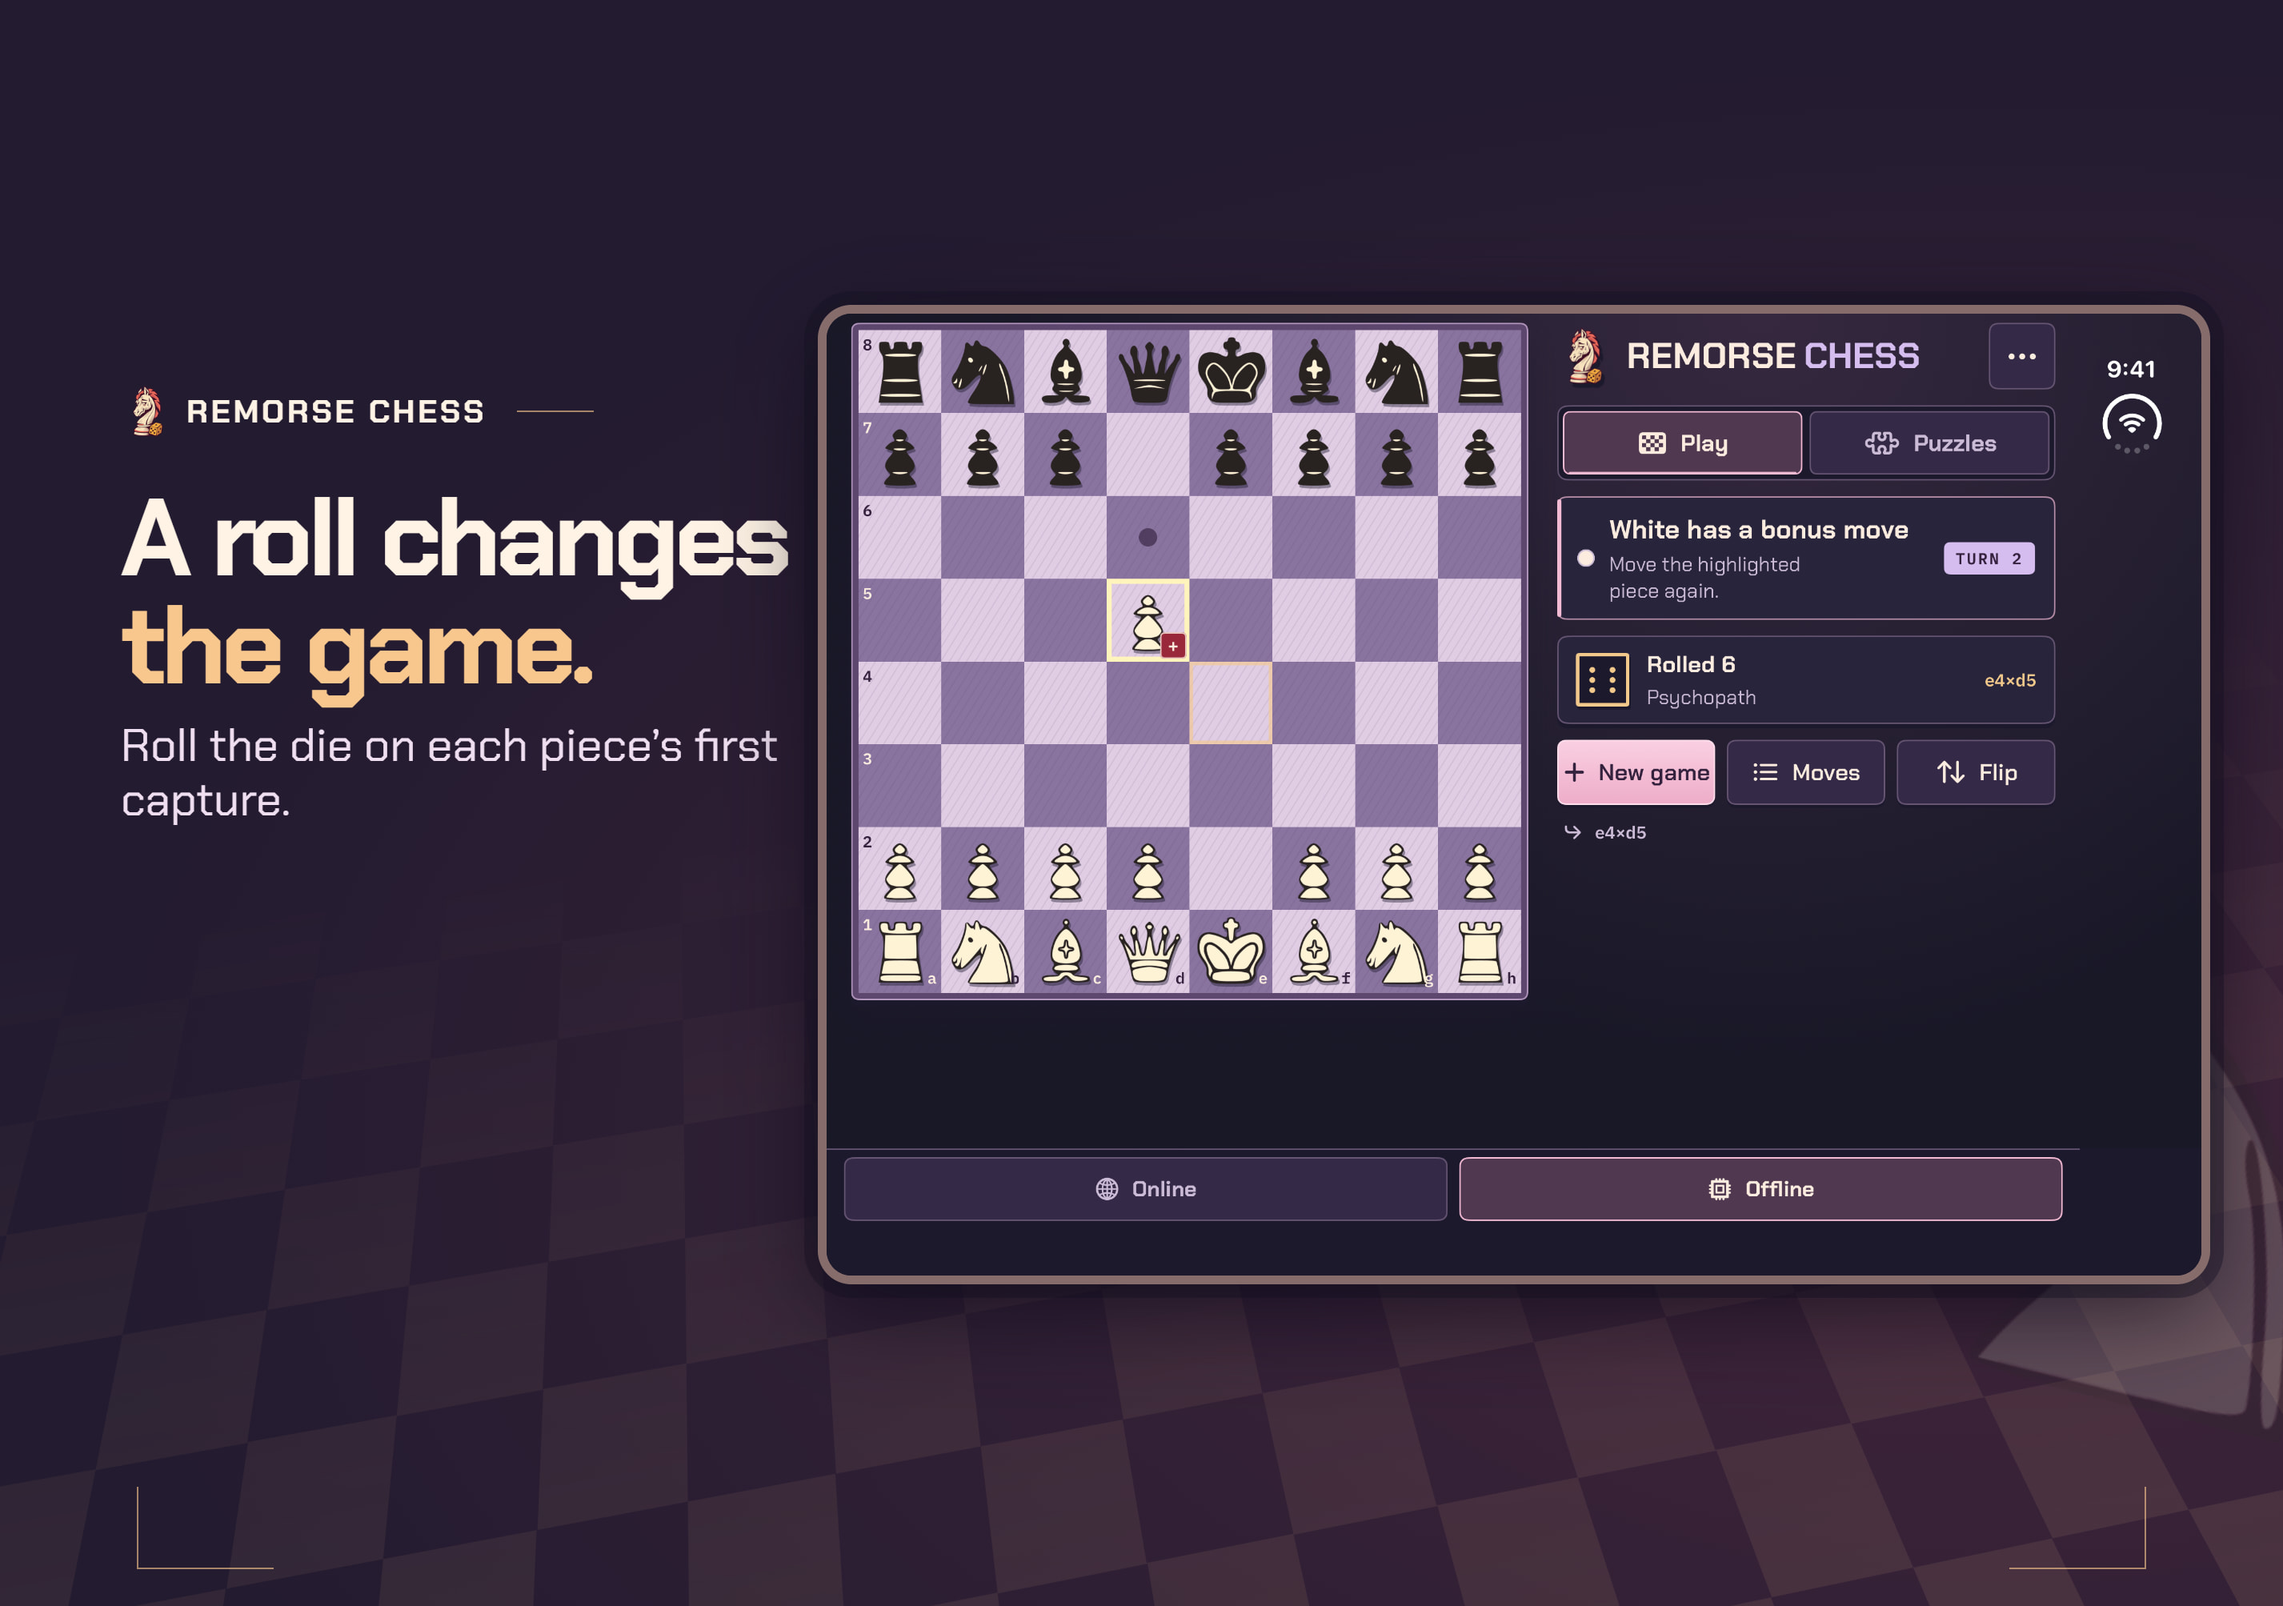
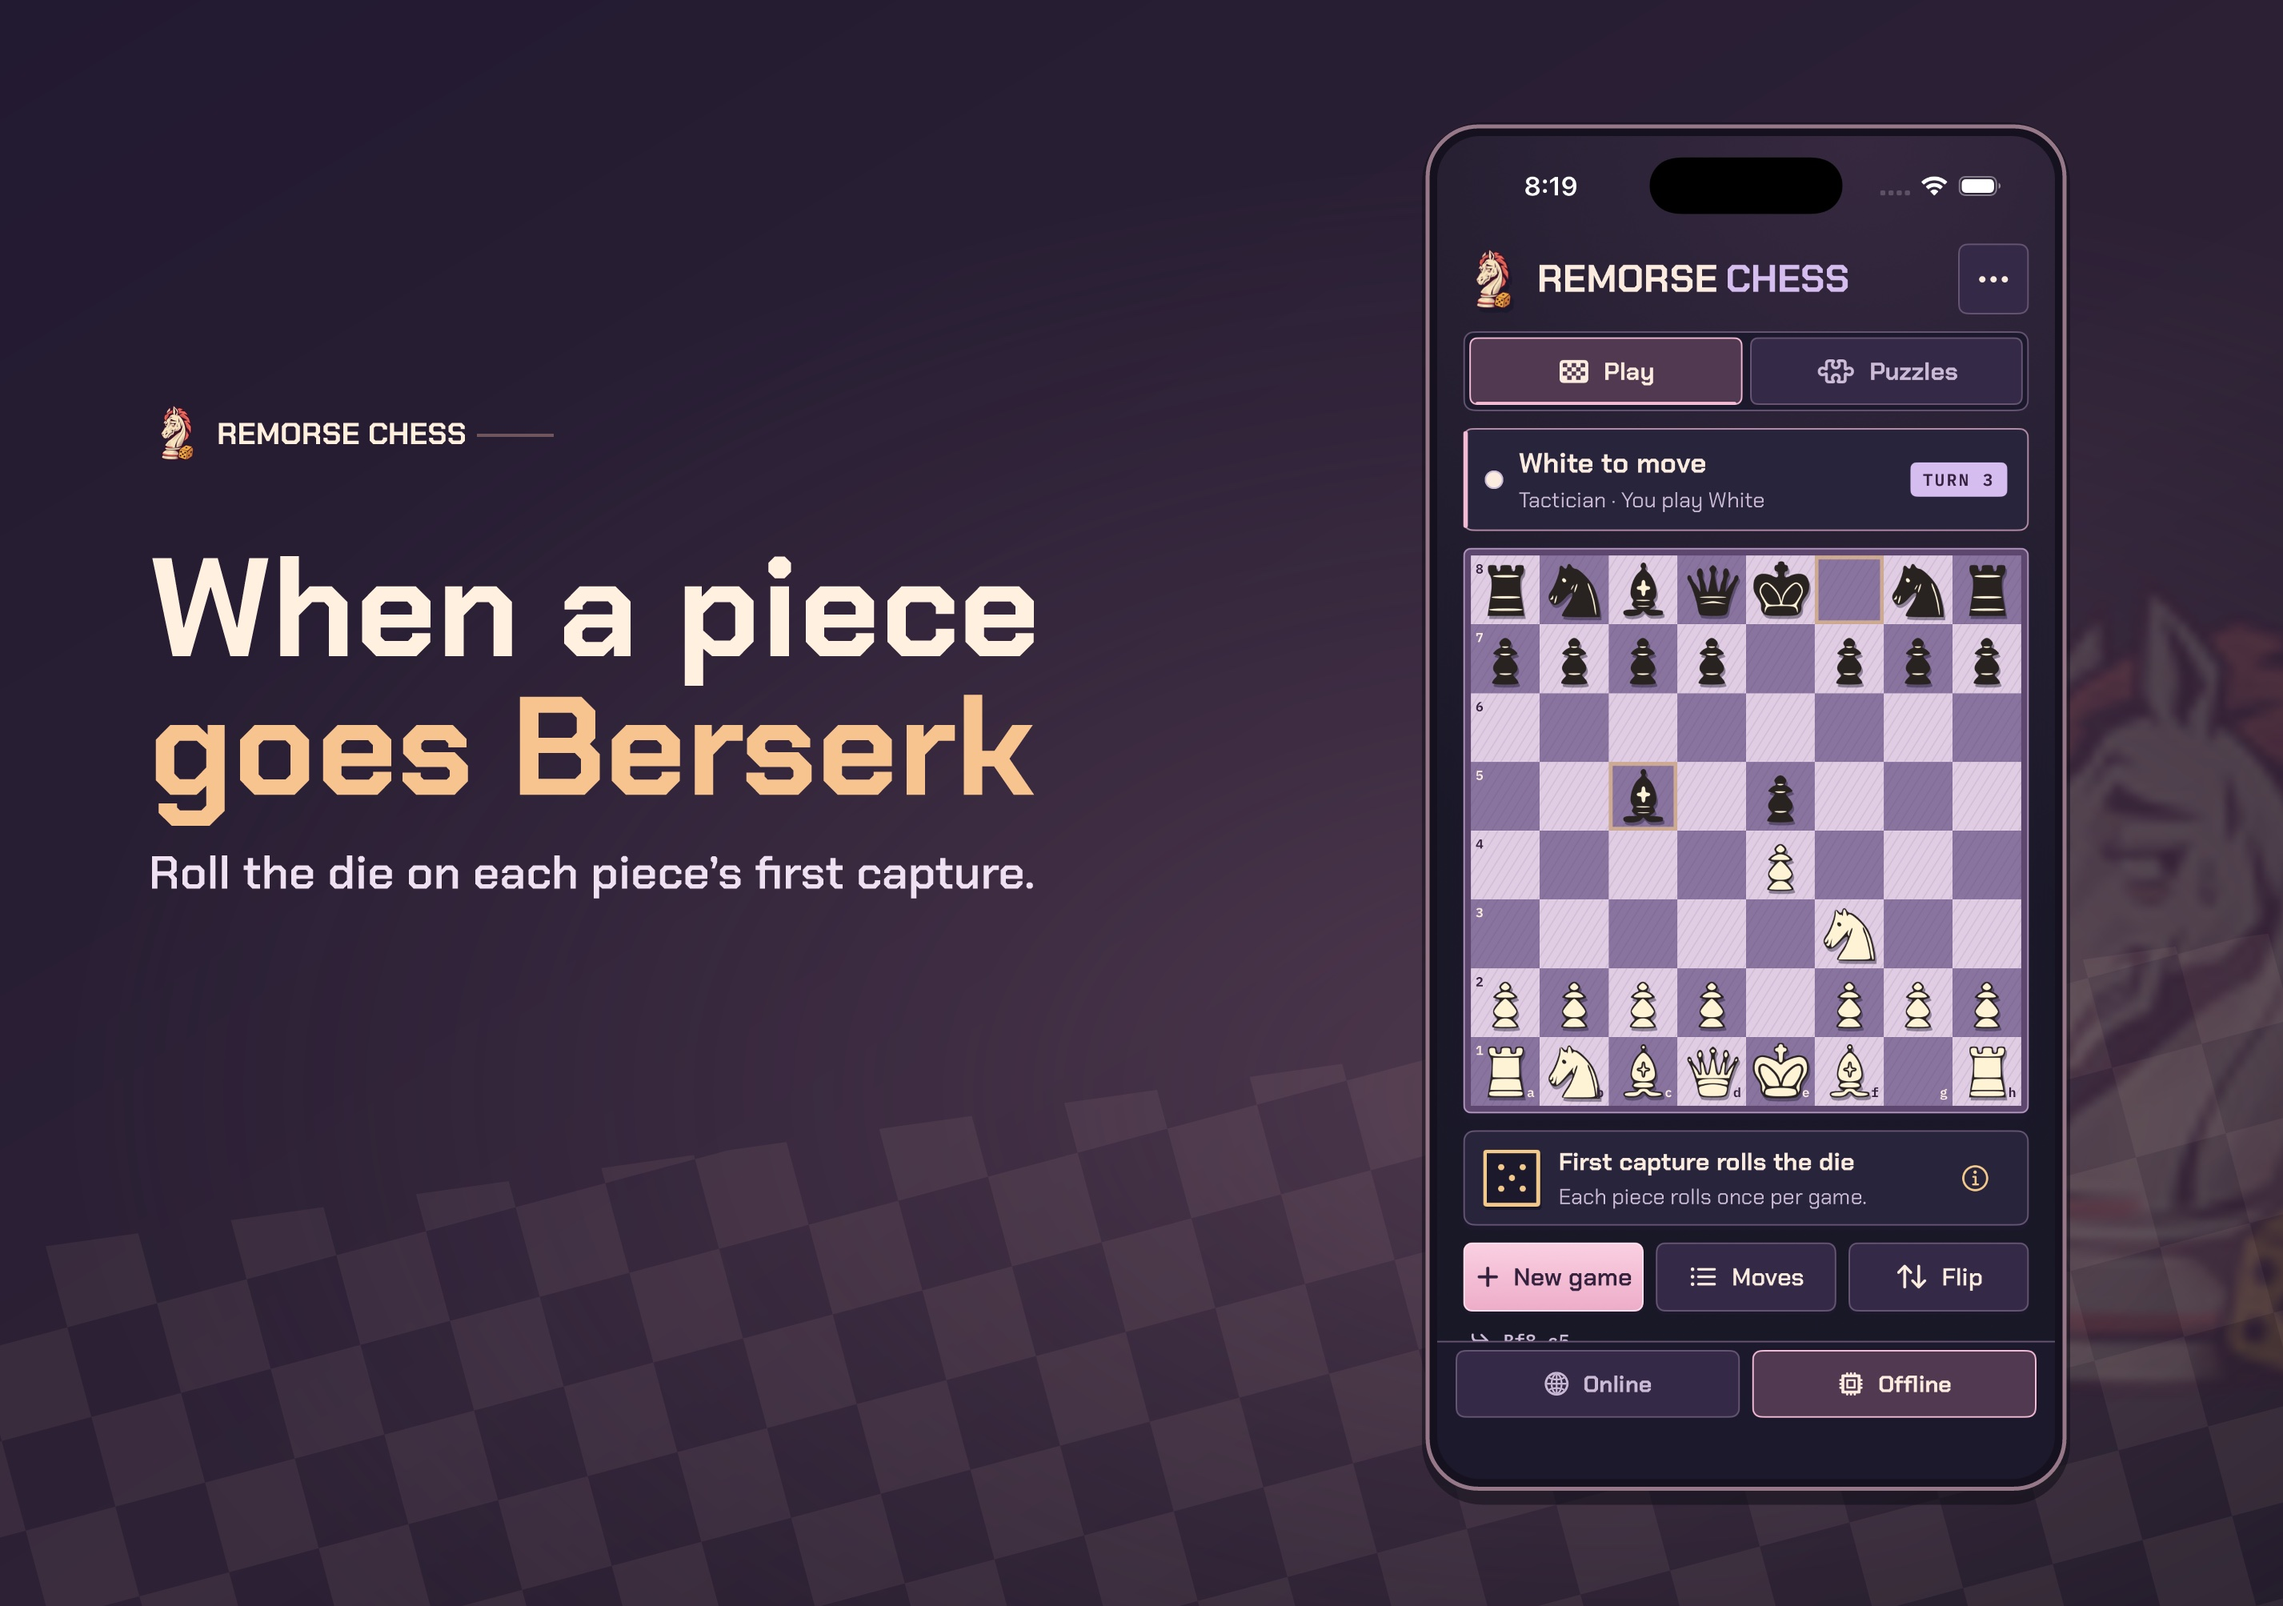
Update App Store graphics for Berserker

diff --git a/ios/AppStore/Screenshots/README.md b/ios/AppStore/Screenshots/README.md
@@ -15,7 +15,7 @@ These JPEGs use actual simulator captures. Upload them in App Store Connect unde
 
 For the existing English (U.S.) listing, keep the original iPhone and iPad cards. The new iPhone Rookie card is already in the medium iPhone slot. Add the puzzle and pass-and-play cards from `iphone/`. In Media Manager, add the four cards from `iphone-large/` to the large iPhone slot and the three cards from `ipad/` to the iPad 13-inch slot. The iPhone Duo group has two outer-display and two inner-display graphics. Use filename order within each size.
 
-The large iPhone dice card uses a real 6.3-inch iPhone simulator capture scaled into the larger canvas. The other large cards use captures from the iPhone 18 Pro Max simulator.
+The Berserker feature cards for large iPhone and both iPhone Duo sizes use a 6.3-inch iPhone simulator capture framed for each canvas. The other large iPhone cards use captures from the iPhone 18 Pro Max simulator.
 
 [Apple’s screenshot specifications](https://developer.apple.com/help/app-store-connect/reference/app-information/screenshot-specifications)
 
